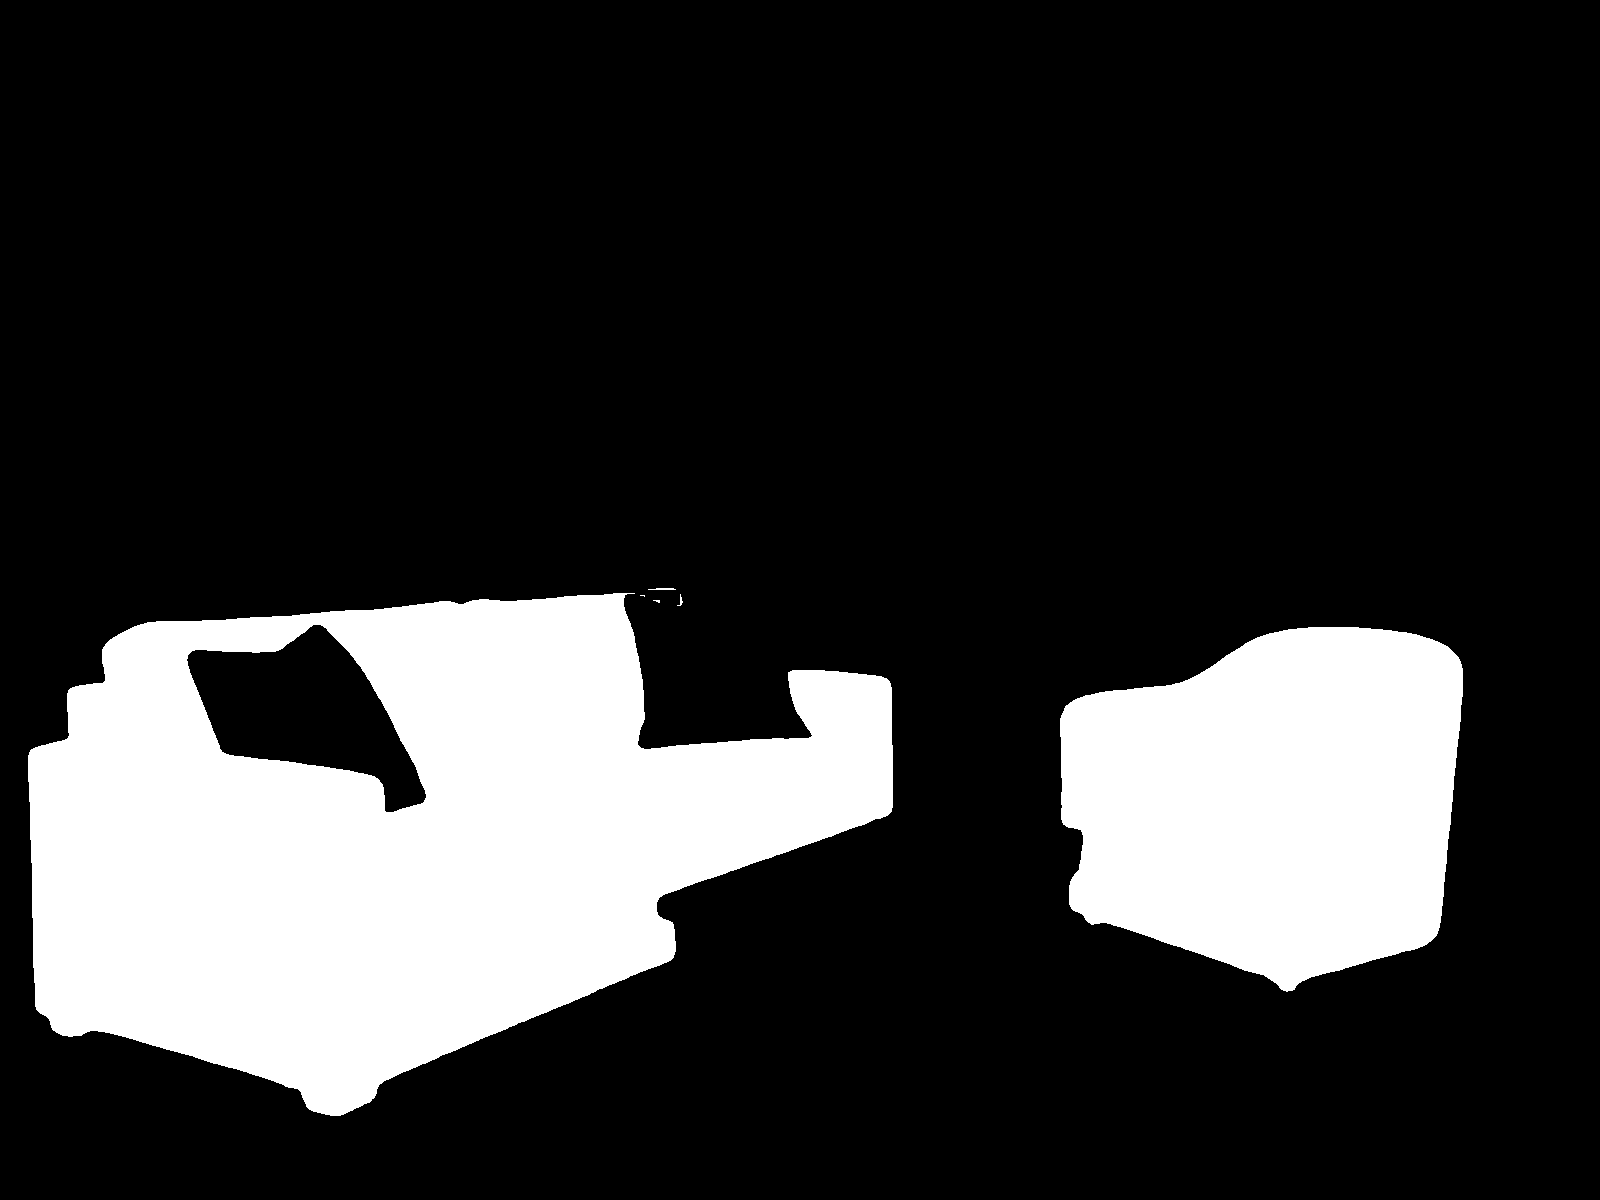
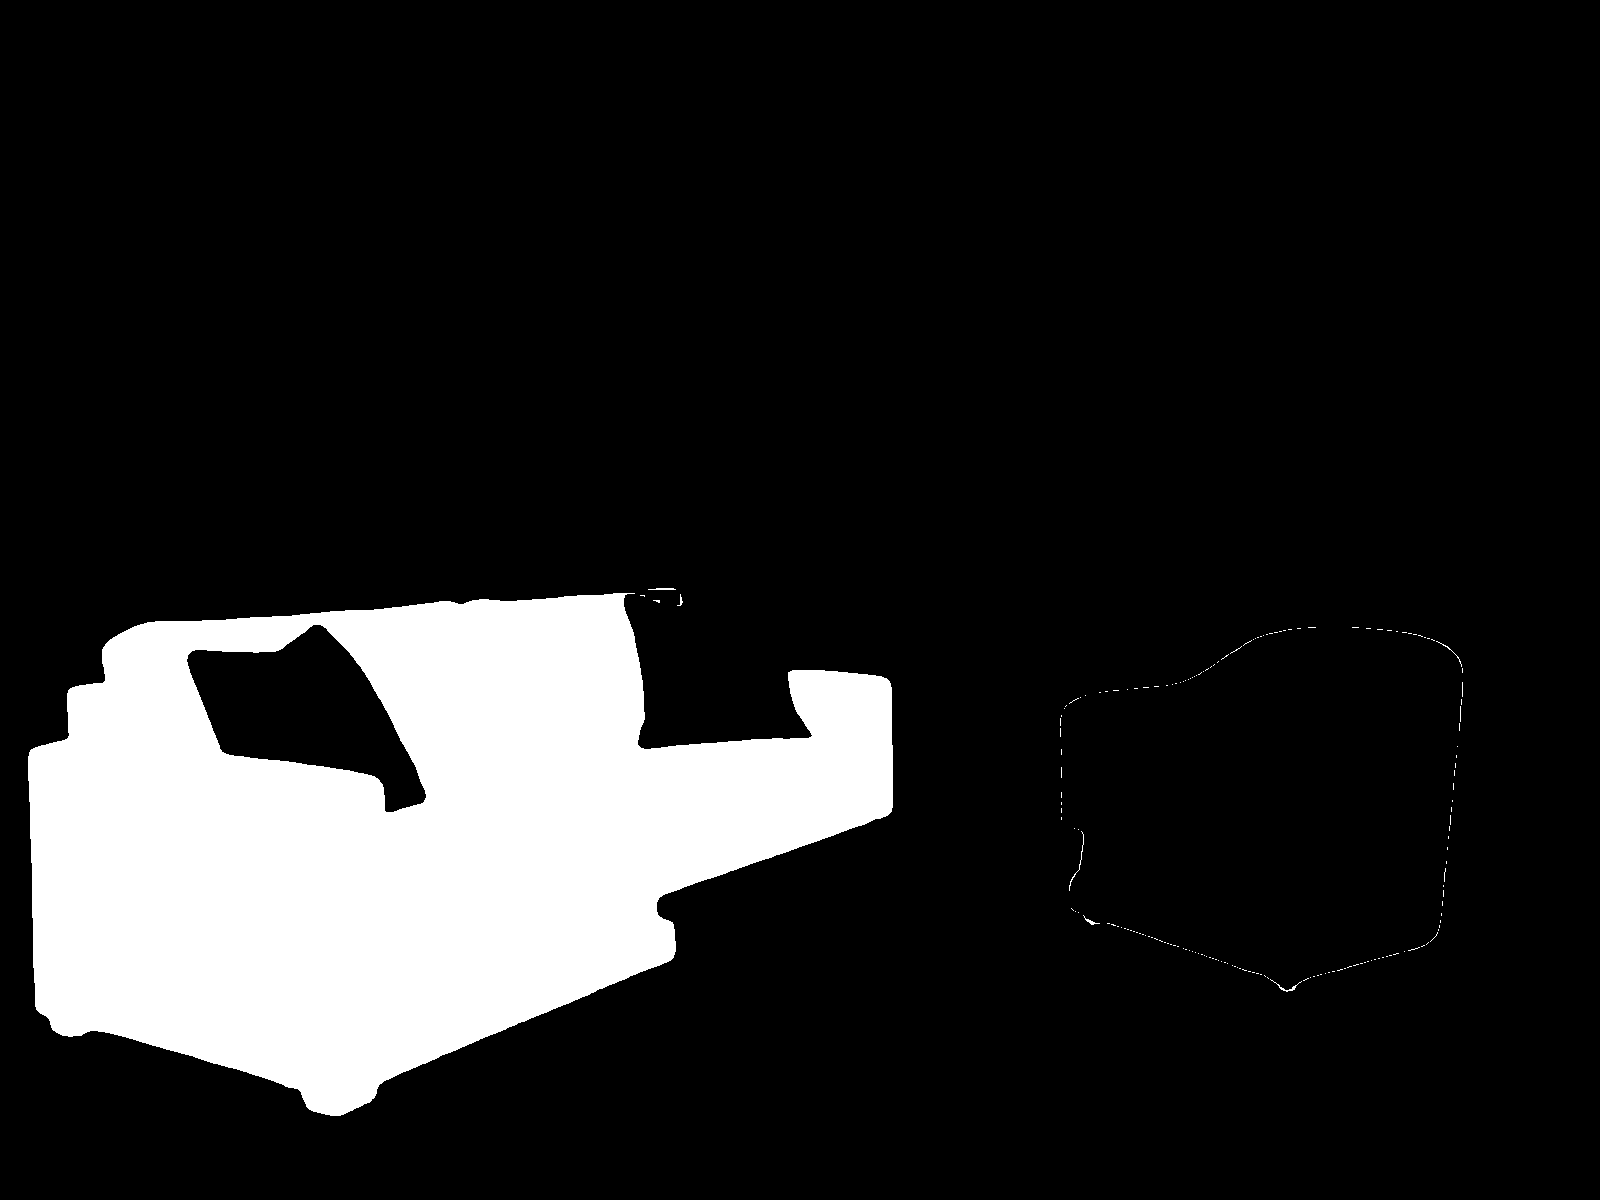
A sofa next to an armchair: SAM's sofa record swallowed the armchair, the edit recoloured only the sofa and the coverage check failed at 70% on the navy sample; each seat now keeps only its own pixels (swap mask and picker masks), navy_living cache masks regenerated; sample and catalog files revalid

Changed region(s): [[0.6562, 0.5242, 0.9375, 0.8325]]

diff --git a/app/static/styles.css b/app/static/styles.css
@@ -1316,8 +1316,8 @@ body.modal-open { overflow: hidden; }
   mask-repeat: no-repeat;
 }
 .ol-fill.assigned { background: var(--rc-saffron); }
-.ol-fill.hover { opacity: 0.18; }
-.ol-fill.sel { opacity: 0.24; }
+.ol-fill.hover { opacity: 0.12; }
+.ol-fill.sel { opacity: 0.16; }
 .ol-tap {
   position: absolute;
   pointer-events: auto;

diff --git a/app/services/swap.py b/app/services/swap.py
@@ -824,6 +824,13 @@ def swap(room_path, fabric_code, target="sofa", api_key=None,
         raise SwapError("could not find the %s in this photo" % concept)
     raw_mask = full_mask if full_mask is not None else sam_mask(
         records, (width, height))
+    if concept == TARGET_CONCEPTS["armchair"]:
+        try:
+            sofa_recs = segment(seg_bytes, TARGET_CONCEPTS["sofa"], key,
+                                timeout=call_timeout())
+        except SwapError:
+            sofa_recs = None
+        raw_mask = separate_seats(raw_mask, sofa_recs, (width, height))
     # Pillows are judged per piece (see swap_checks.run_checks).
     pieces = record_masks(records, (width, height)) \
         if target == "cushions" else False
@@ -966,6 +973,31 @@ def _rank(cand):
 
 
 SOFA_CUSHIONS_CONCEPT = "cushions"
+# Another seat's mask is cut out of this seat's mask only when it is
+# clearly a different piece: at most this share of the seat's area.
+OTHER_SEAT_MAX_SHARE = 0.6
+
+
+def separate_seats(mask, other_records, size):
+    """mask minus the other seat (records or a mask), when that other
+    seat is a distinct, smaller piece. Never erases the seat itself."""
+    if other_records is None or isinstance(other_records, Exception):
+        return mask
+    try:
+        other = other_records if isinstance(other_records, Image.Image) \
+            else (sam_mask(other_records, size) if other_records else None)
+    except (SwapError, sam_codec.MaskError):
+        return mask
+    if other is None:
+        return mask
+    seat = _mask_coverage(mask, size)
+    share = _mask_coverage(ImageChops.multiply(mask.convert("L"), other.convert("L")), size) / max(1e-6, seat)
+    if share <= 0 or share > OTHER_SEAT_MAX_SHARE:
+        return mask
+    cut = ImageChops.subtract(mask.convert("L"), other.convert("L"))
+    if _mask_coverage(cut, size) < 0.3 * seat:
+        return mask
+    return cut
 SOFA_ARM_CONCEPT = "armrest"
 SOFA_BACK_CONCEPT = "sofa backrest"
 # Enclosed gaps up to this share of the mask are filled (a shadow patch
@@ -1073,7 +1105,8 @@ def sofa_full_mask(seg_bytes, size, key, timeout, keep_pillows=True):
     """
     from concurrent.futures import ThreadPoolExecutor
     concepts = [TARGET_CONCEPTS["sofa"], SOFA_CUSHIONS_CONCEPT,
-                SOFA_WOOD_CONCEPT, SOFA_ARM_CONCEPT, SOFA_BACK_CONCEPT]
+                SOFA_WOOD_CONCEPT, SOFA_ARM_CONCEPT, SOFA_BACK_CONCEPT,
+                TARGET_CONCEPTS["armchair"]]
     if keep_pillows:
         concepts.append(TARGET_CONCEPTS["cushions"])
 
@@ -1140,8 +1173,13 @@ def sofa_full_mask(seg_bytes, size, key, timeout, keep_pillows=True):
                 mask = ImageChops.subtract(mask, wood_mask)
         except (SwapError, sam_codec.MaskError):
             pass
+    # A sofa and an armchair in one room: SAM's "sofa" record often
+    # swallows the armchair, the edit then recolours only the sofa and
+    # the coverage check fails. The armchair is cut back out when it is
+    # a separate piece (well under the sofa's own area).
+    mask = separate_seats(mask, outs[5], size)
     if keep_pillows:
-        pillows = outs[5]
+        pillows = outs[6]
         if pillows and not isinstance(pillows, Exception):
             try:
                 mask = ImageChops.subtract(mask, sam_mask(pillows, size))

diff --git a/tests/test_swap.py b/tests/test_swap.py
@@ -527,3 +527,29 @@ def _union(size, records):
     for r in records:
         out.paste(255, tuple(int(v) for v in r["box"]))
     return out
+
+
+def test_sofa_mask_drops_the_armchair_beside_it(monkeypatch):
+    """SAM's sofa record covered the sofa AND the armchair; the edit
+    recoloured the sofa only and coverage failed at 70%. The armchair
+    is cut out when it is a distinct, smaller piece."""
+    size = (200, 100)
+    sofa = [{"box": (10, 30, 190, 90), "frame_size": (200, 100)}]   # swallows the chair
+    chair = [{"box": (140, 40, 190, 90), "frame_size": (200, 100)}]
+
+    def fake_segment(img, concept, key=None, timeout=1):
+        if concept == s.TARGET_CONCEPTS["sofa"]:
+            return sofa
+        if concept == s.TARGET_CONCEPTS["armchair"]:
+            return chair
+        return []
+
+    monkeypatch.setattr(s, "segment", fake_segment)
+    monkeypatch.setattr(s, "sam_mask", lambda records, sz: _union(sz, records))
+    _, mask = s.sofa_full_mask(b"x", size, "k", 5)
+    assert mask.getpixel((60, 60)) == 255, "sofa stays"
+    assert mask.getpixel((170, 70)) == 0, "the armchair is cut out"
+    # The whole seat is "the other seat" (SAM returned the same object
+    # for both prompts): nothing is cut.
+    same = _union(size, sofa)
+    assert s.separate_seats(same, sofa, size).getpixel((170, 70)) == 255

diff --git a/app/main.py b/app/main.py
@@ -53,6 +53,10 @@ VERSIONED_ASSETS = ("common.js", "app.js", "landing.js", "switcher.js",
 
 # A week, immutable: versioned assets change URL when they change.
 ASSET_CACHE = "public, max-age=604800, immutable"
+# Sample rooms, their masks and catalog swatches keep their URLs when
+# they are regenerated, so they revalidate (ETag) instead of pinning a
+# stale file in the browser for a week.
+DATA_CACHE = "public, max-age=300, must-revalidate"
 ASSET_EXTS = (".js", ".css", ".svg", ".jpg", ".jpeg", ".png", ".webp",
               ".json", ".woff", ".woff2", ".ico")
 # Uploads, share links and APIs are never cached by this rule.
@@ -135,7 +139,9 @@ async def asset_cache_headers(request, call_next):
     if (request.method in ("GET", "HEAD") and response.status_code == 200
             and _is_cacheable_asset(request.url.path)
             and "cache-control" not in response.headers):
-        response.headers["Cache-Control"] = ASSET_CACHE
+        response.headers["Cache-Control"] = (
+            DATA_CACHE if request.url.path.startswith("/data/")
+            else ASSET_CACHE)
     return response
 
 

diff --git a/tests/test_money.py b/tests/test_money.py
@@ -6,7 +6,7 @@ import subprocess
 import pytest
 from fastapi.testclient import TestClient
 
-from app.main import ASSET_CACHE, VERSION, app, current_version
+from app.main import ASSET_CACHE, DATA_CACHE, VERSION, app, current_version
 from app.services.money import format_money
 
 
@@ -56,7 +56,8 @@ def test_versioned_assets_cache_a_week_html_never():
     assert asset.headers["cache-control"] == ASSET_CACHE
     assert "immutable" in ASSET_CACHE and "max-age=604800" in ASSET_CACHE
     sample = client.get("/data/samples/living.jpg")
-    assert sample.headers["cache-control"] == ASSET_CACHE
+    assert sample.headers["cache-control"] == DATA_CACHE
+    assert "immutable" not in DATA_CACHE and "must-revalidate" in DATA_CACHE
     api = client.get("/api/fabrics")
     assert "immutable" not in (api.headers.get("cache-control") or "")
 

diff --git a/app/services/targets.py b/app/services/targets.py
@@ -283,6 +283,13 @@ def masks_for(image_path, types, api_key=None):
         if seat in masks and "cushions" in masks:
             masks[seat] = _subtract_cushions(masks[seat],
                                              masks["cushions"])
+    if "sofa" in masks and "armchair" in masks:
+        # SAM's "sofa" record often swallows the armchair next to it
+        # (and vice versa): each seat keeps only its own pixels.
+        from app.services.swap import separate_seats
+        sofa, chair = masks["sofa"], masks["armchair"]
+        masks["sofa"] = separate_seats(sofa, chair, room.size)
+        masks["armchair"] = separate_seats(chair, sofa, room.size)
     return masks
 
 

diff --git a/scripts/warm_sample_cache.py b/scripts/warm_sample_cache.py
@@ -41,6 +41,10 @@ def main():
     wanted = {s.strip() for s in args.only.split(",") if s.strip()}
     os.makedirs(sample_cache.CACHE_DIR, exist_ok=True)
     os.makedirs(sample_cache.MASKS_DIR, exist_ok=True)
+    # Warming must recompute: a hit on the existing cache would copy a
+    # mask file onto itself and keep stale masks forever.
+    sample_cache.get_targets = lambda image_path: None
+    sample_cache.get_analysis = lambda image_path, lang=None: None
     report = {}
     ids = [s for s in sample_cache.SAMPLE_IDS
            if not wanted or s in wanted]
